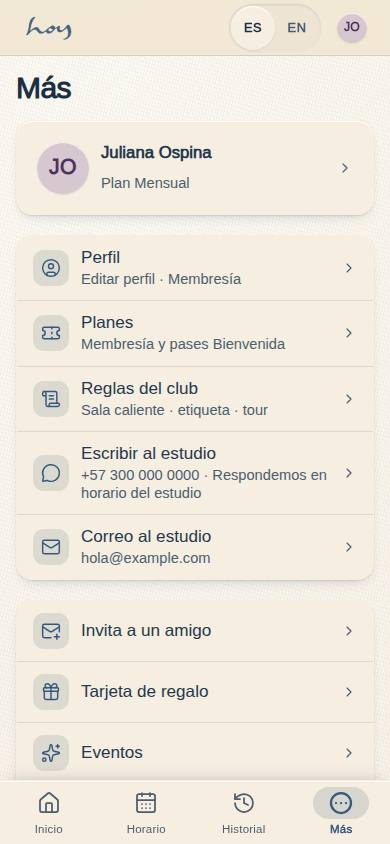
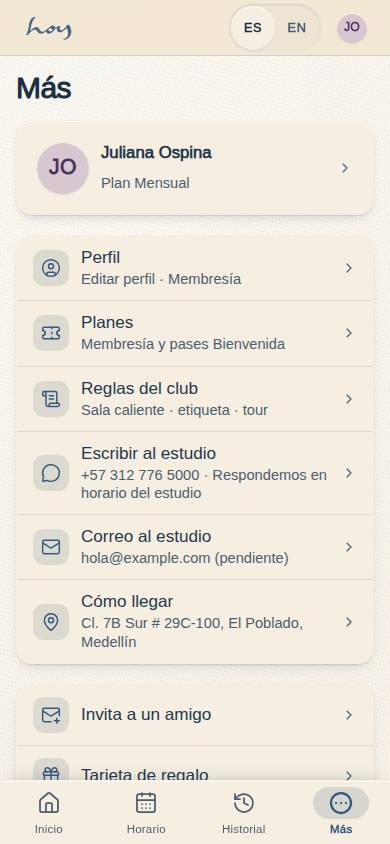
docs: C-25 and C-26 captures for the real contact rows
Pages: C-25, C-26.

Claude-Session: https://claude.ai/code/session_016zh2eik1XLHPAoXrCMz3M8

diff --git a/src/app/captureDates.ts b/src/app/captureDates.ts
@@ -47,8 +47,9 @@ export const CAPTURED: Record<string, string> = {
   'HUB-01': '2026-09-29',
   'K-01': '2026-09-20',
   'K-02': '2026-09-20',
-  'K-03': '2026-09-18',
-  'K-04': '2026-09-18',
+  'K-03': '2026-09-29',
+  'K-04': '2026-09-29',
+  'K-05': '2026-09-29',
   'M-01': '2026-09-20',
   'M-02': '2026-09-18',
   'M-02a': '2026-09-18',

diff --git a/docs/changelog/0036-real-contact.md b/docs/changelog/0036-real-contact.md
@@ -4,7 +4,7 @@ prompt: docs/prompts/0036-real-contact.md
 intent: Justin: the studio's real WhatsApp number (+57 312 776 5000) and its address (the same as Santa María Tenis Club, El Poblado, Medellín) — look the address up and update the site and the app.
 decision: The facts live in `src/tenant/tenant.ts` only: `contact.whatsapp` '+57 312 776 5000', `contact.address` 'Cl. 7B Sur # 29C-100, El Poblado' (the club's own site, santamariatenisclub.com, checked 2026-09-29; easycancha agrees), `location` 6.19281, -75.56535 (easycancha listing) with the full street label and a new `location.link` (Google Maps search for the address), which `contactOf()` uses when M-08a's map link is empty. The seeded `tenants` row has no `settings.profile`, so M-08a's defaults (`DEFAULT_SETTINGS.profile`) are tenant.ts and both agree. Confirmation is now per field: `tenant.contact.pending: true` became `tenant.contact.confirmed: { whatsapp, address, email, instagram }` (true, true, false, false); `StudioSettings.profile` gained `confirmedFields` (merged with the defaults, so a stored profile from before 0036 inherits them; a stored `confirmed: true` still confirms all four); `StudioContact` gained `pendingFields` (`pending` = any still open, for badges) and `pendingSuffix(contact, field, lang)`. Consumers switched to per field: site footer (`SiteShell`, address now links to the map), W-06 cards, `LiveBlock` `{{tenant:contact}}`, the A-06 legal tokens (email and WhatsApp now carry "(pendiente)" when unconfirmed), the M-04 email footer (now legal name · address, city · WhatsApp) and envelope, C-25 (WhatsApp / email suffix + a new "Cómo llegar" map row) and C-26 (controller paragraph reads `useContact` facts: address + WhatsApp added, email labelled). M-08a shows four switches and an "N por confirmar" badge. Email, Instagram and NIT stay placeholders/pending (no public HOY handle found; not guessed). S-04's `Receipt` prints the legal name only, so it needed nothing. Patch bump to 0.13.1 (main was 0.13.0 after 0031 merged). Model routing: Opus 5.5 (build), Fable 5.1 (direction).
 rejected: Hardcoding the phone and address in the components (or in the website strings) — CLAUDE.md keeps studio facts in tenant.ts and `useContact()` is the one reader, so M-08a can still override them. Also rejected: flipping the old all-or-nothing "Datos confirmados" switch on, which would have presented the placeholder email and Instagram as fact.
-files: src/tenant/tenant.ts; src/modules/admin/settings.ts; src/modules/admin/SettingsPage.tsx; src/modules/admin/EmailsPage.tsx; src/modules/admin/strings.ts; src/modules/admin/specs.ts; src/modules/website/SiteShell.tsx; src/modules/website/pages/ContactPage.tsx; src/modules/website/specs.ts; src/components/organism/LiveBlock/LiveBlock.tsx; src/modules/customer/legal.tsx; src/modules/customer/pages/MorePage.tsx; src/modules/customer/pages/AccountPage.tsx; src/modules/customer/strings.ts; docs/pages/W-06.md; docs/pages/C-26.md; docs/pages/M-08a.md; docs/screenshots/W-06/*; docs/screenshots/M-08a/*; docs/screenshots/routes.json; docs/prompts/0036-real-contact.md; docs/changelog/0036-real-contact.md; docs/kanban.md; docs/README.md; ROADMAP.md; package.json; package-lock.json
+files: src/tenant/tenant.ts; src/modules/admin/settings.ts; src/modules/admin/SettingsPage.tsx; src/modules/admin/EmailsPage.tsx; src/modules/admin/strings.ts; src/modules/admin/specs.ts; src/modules/website/SiteShell.tsx; src/modules/website/pages/ContactPage.tsx; src/modules/website/specs.ts; src/components/organism/LiveBlock/LiveBlock.tsx; src/modules/customer/legal.tsx; src/modules/customer/pages/MorePage.tsx; src/modules/customer/pages/AccountPage.tsx; src/modules/customer/strings.ts; docs/pages/W-06.md; docs/pages/C-26.md; docs/pages/M-08a.md; docs/screenshots/W-06/*; docs/screenshots/M-08a/*; docs/screenshots/C-25/*; docs/screenshots/C-26/*; src/app/captureDates.ts (generated); docs/screenshots/routes.json; docs/prompts/0036-real-contact.md; docs/changelog/0036-real-contact.md; docs/kanban.md; docs/README.md; ROADMAP.md; package.json; package-lock.json
 codes: W-06, M-08a, C-25, C-26, A-06, M-04, K-02 (manual live block), site footer (W-*)
 
-Checks: `npm run build` green (zero TypeScript errors); `npm run screenshots -- --pages=W-06,M-08a --dark=W-06,M-08a`, no console errors. `W-06/es-1280.jpg` read back: WhatsApp "+57 312 776 5000" and Dirección "Cl. 7B Sur # 29C-100, El Poblado · Medellín" with no pending line, correo and Instagram with "Dato pendiente de confirmar"; map placeholder shows the street address, "Abrir en Google Maps ↗ · 6.1928, -75.5653"; footer shows the address and WhatsApp plain, "hola@example.com (pendiente)" and "Instagram @hoy (pendiente)". `M-08a/es-1280.jpg`: four switches, WhatsApp + Dirección on, badge "2 por confirmar".
+Checks: `npm run build` green (zero TypeScript errors); `npm run screenshots -- --pages=W-06,M-08a --dark=W-06,M-08a` and `--pages=C-25,C-26`, no console errors. `C-25/es-390.jpg`: "+57 312 776 5000", "hola@example.com (pendiente)", "Cómo llegar · Cl. 7B Sur # 29C-100, El Poblado, Medellín". `W-06/es-1280.jpg` read back: WhatsApp "+57 312 776 5000" and Dirección "Cl. 7B Sur # 29C-100, El Poblado · Medellín" with no pending line, correo and Instagram with "Dato pendiente de confirmar"; map placeholder shows the street address, "Abrir en Google Maps ↗ · 6.1928, -75.5653"; footer shows the address and WhatsApp plain, "hola@example.com (pendiente)" and "Instagram @hoy (pendiente)". `M-08a/es-1280.jpg`: four switches, WhatsApp + Dirección on, badge "2 por confirmar".
